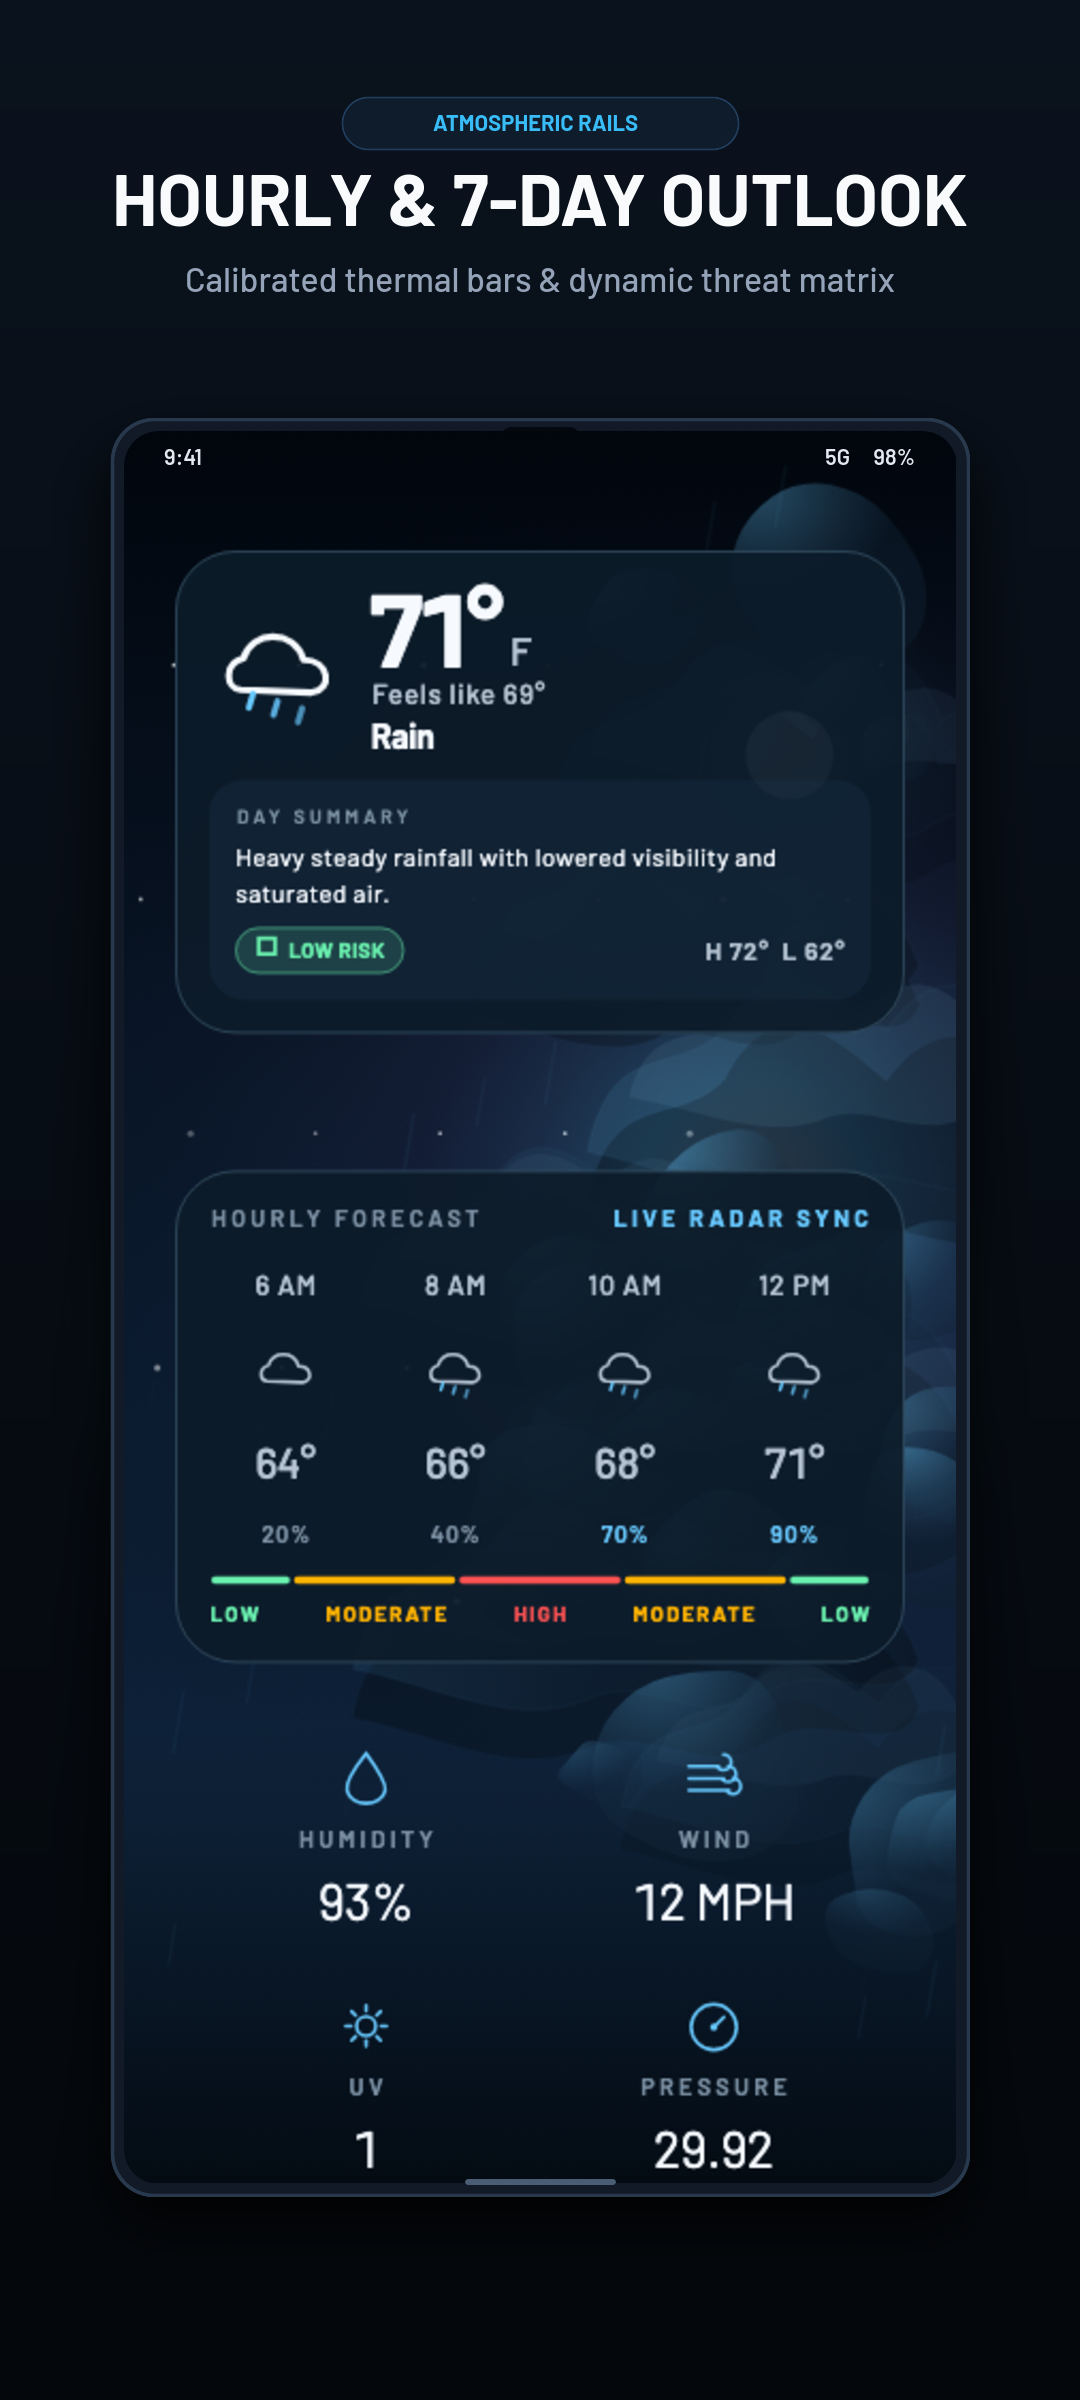
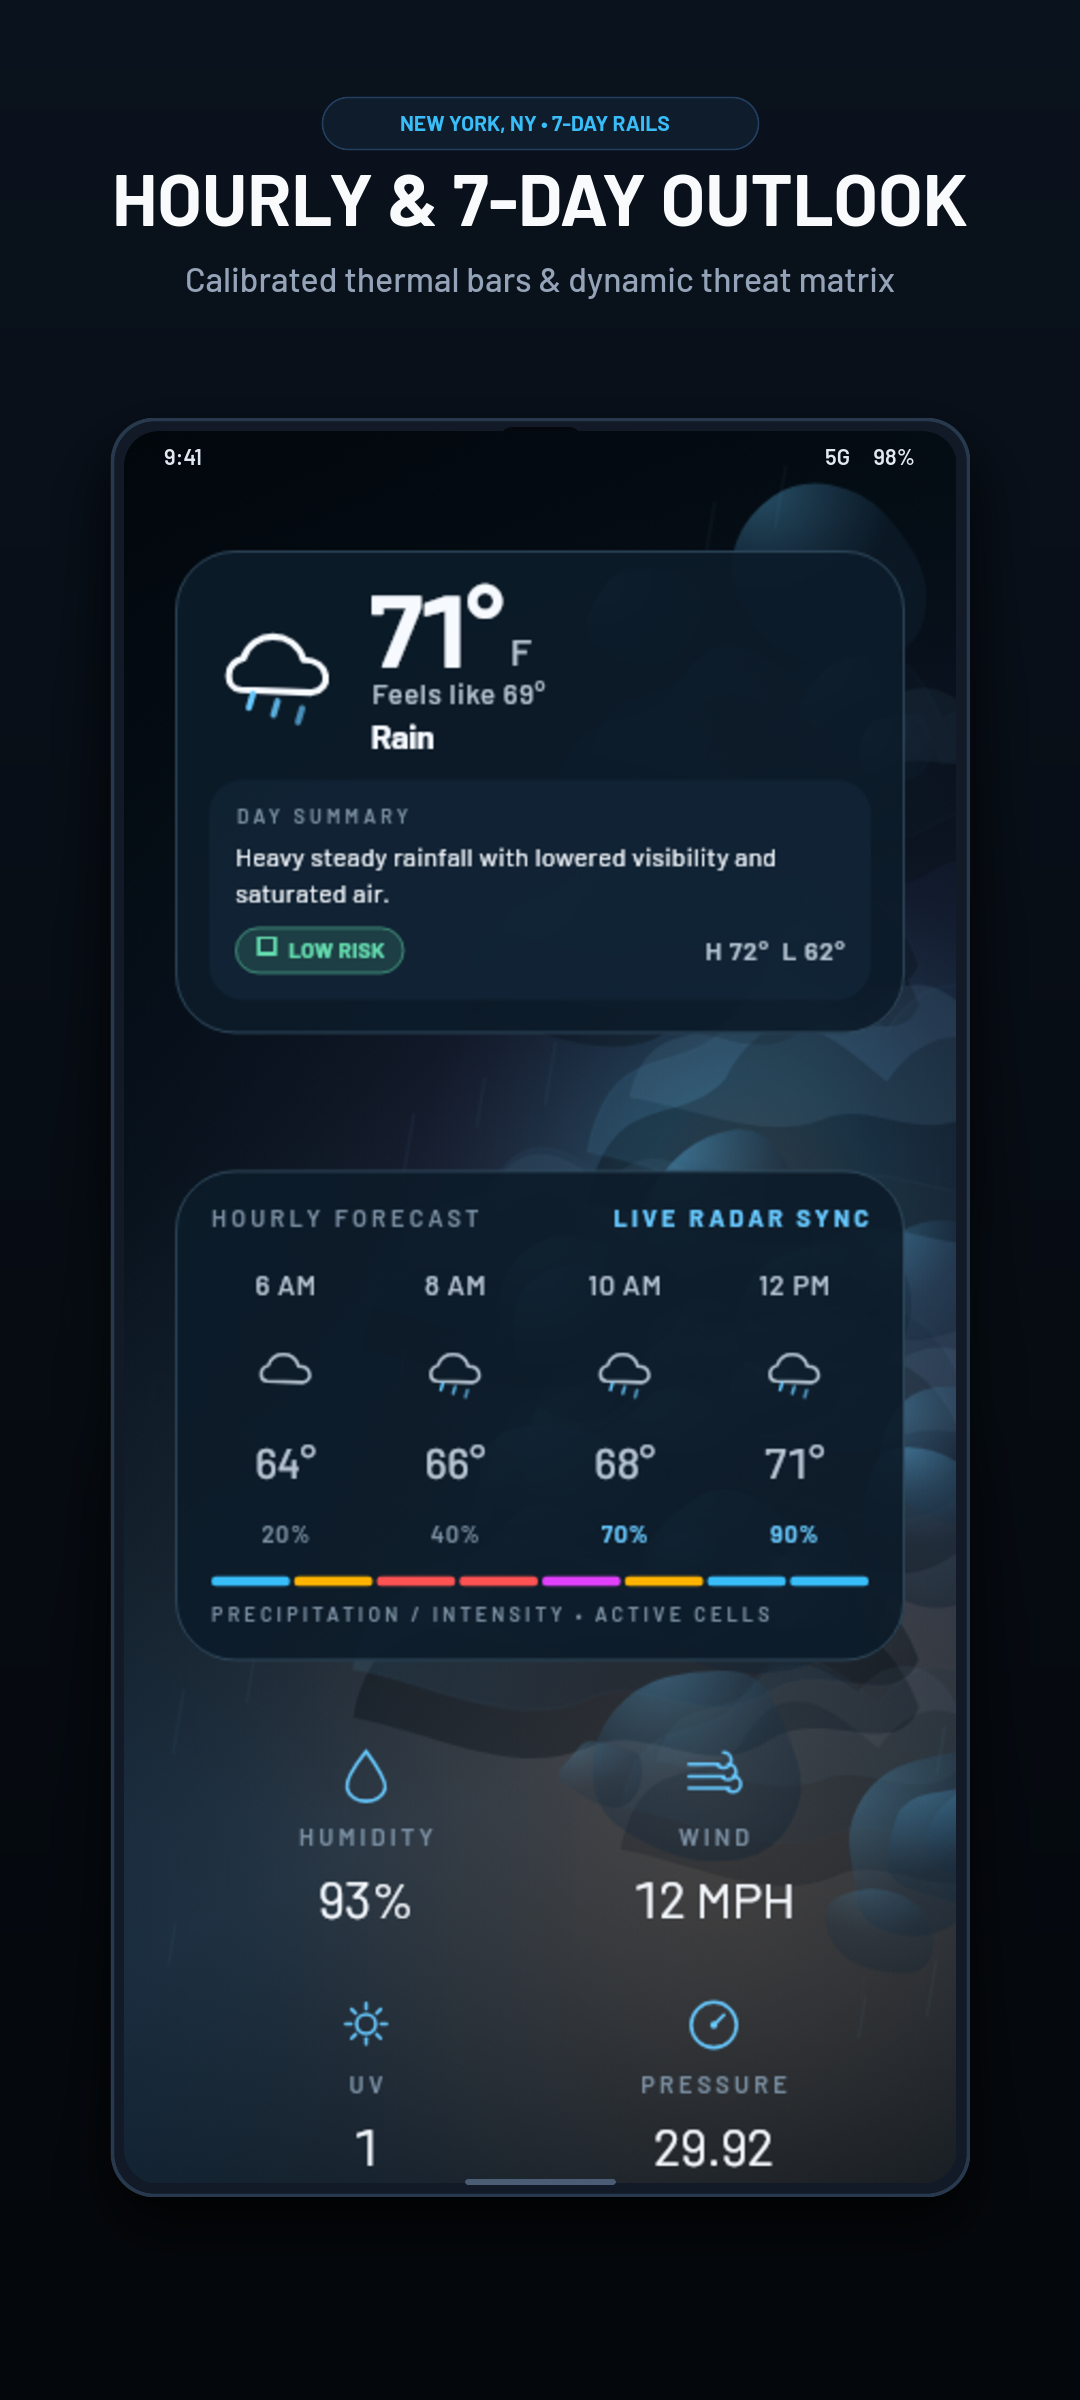
feat(location): update default mock location and store screenshots to New York, NY

diff --git a/test/widget_test.dart b/test/widget_test.dart
@@ -22,7 +22,7 @@ void main() {
     await tester.pump();
 
     expect(find.byType(WeatherLoadingView), findsNothing);
-    expect(find.text('Woonsocket, RI'), findsOneWidget);
+    expect(find.text('New York, NY'), findsOneWidget);
     expect(find.text('71°'), findsAtLeastNWidgets(1));
     expect(find.text('Rain'), findsAtLeastNWidgets(1));
     expect(tester.takeException(), isNull);
@@ -41,7 +41,7 @@ void main() {
     await tester.pump();
 
     // Verify initial load
-    expect(find.text('Woonsocket, RI'), findsOneWidget);
+    expect(find.text('New York, NY'), findsOneWidget);
 
     // Tap an hour in the rail to change selected forecast index
     final hourCell = find.text('10 AM');
@@ -66,10 +66,10 @@ void main() {
     await tester.pump(const Duration(milliseconds: 400));
     await tester.pump();
 
-    expect(find.text('Woonsocket, RI'), findsOneWidget);
+    expect(find.text('New York, NY'), findsOneWidget);
 
     // Tap location header to open dialog
-    await tester.tap(find.text('Woonsocket, RI'));
+    await tester.tap(find.text('New York, NY'));
     await tester.pump(const Duration(milliseconds: 300));
     await tester.pump(const Duration(milliseconds: 300));
 

diff --git a/lib/features/weather/models/mock_weather.dart b/lib/features/weather/models/mock_weather.dart
@@ -5,7 +5,7 @@ import 'weather_model.dart';
 
 abstract final class MockWeather {
   static const WeatherModel newYorkRain = WeatherModel(
-    location: 'Woonsocket, RI',
+    location: 'New York, NY',
     temperature: 71,
     condition: WeatherCondition.rain,
     feelsLike: 69,
@@ -175,7 +175,7 @@ abstract final class MockWeather {
   );
 
   static final WeatherModel newYorkStorm = WeatherModel(
-    location: 'Woonsocket, RI',
+    location: 'New York, NY',
     temperature: 65,
     condition: WeatherCondition.storm,
     feelsLike: 59,

diff --git a/test/visual/home_golden_test.dart b/test/visual/home_golden_test.dart
@@ -164,7 +164,7 @@ void main() {
       platform: TargetPlatform.iOS,
       textScaler: const TextScaler.linear(1.8),
     );
-    expect(find.text('Woonsocket, RI'), findsOneWidget);
+    expect(find.text('New York, NY'), findsOneWidget);
     expect(find.text('71°'), findsAtLeastNWidgets(2));
     expect(find.text('Rain'), findsOneWidget);
     expect(find.text('Feels like 69°'), findsOneWidget);

diff --git a/test/weather_accessibility_test.dart b/test/weather_accessibility_test.dart
@@ -27,7 +27,7 @@ void main() {
     await _pumpShowcase(tester, disableAnimations: true);
 
     expect(
-      find.bySemanticsLabel(RegExp(r'Woonsocket, RI\. 71 degrees\. Rain\.')),
+      find.bySemanticsLabel(RegExp(r'New York, NY\. 71 degrees\. Rain\.')),
       findsOneWidget,
     );
     expect(

diff --git a/test/visual/showcase_golden_test.dart b/test/visual/showcase_golden_test.dart
@@ -108,7 +108,7 @@ void main() {
 
     expect(
       find.bySemanticsLabel(
-        'Woonsocket, RI. 65 degrees. Storm. Feels like 59 degrees. '
+        'New York, NY. 65 degrees. Storm. Feels like 59 degrees. '
         'High 68, low 57.',
       ),
       findsOneWidget,

diff --git a/scripts/render_premium_screenshots.py b/scripts/render_premium_screenshots.py
@@ -10,26 +10,20 @@ FONT_MEDIUM = os.path.join(PROJECT_DIR, "assets/fonts/Barlow-Medium.ttf")
 os.makedirs(OUTPUT_DIR, exist_ok=True)
 os.makedirs("/tmp/store_render", exist_ok=True)
 
-# 1. Prepare Base UI Sources
-# Screen 1: High-res Telemetry (captured earlier at 989x2196)
+# Sources using the fresh New York, NY captures
 ui_telemetry = "/tmp/weatheros_captures/01_telemetry.png"
 if not os.path.exists(ui_telemetry):
-    ui_telemetry = os.path.join(PROJECT_DIR, "test/visual/goldens/home_compact_android.png")
+    ui_telemetry = os.path.join(PROJECT_DIR, "test/visual/failures/showcase_compact_testImage.png")
 
-# Screen 2: Hourly & 7-Day Forecast (Showcase compact)
-ui_forecast = os.path.join(PROJECT_DIR, "test/visual/goldens/showcase_compact.png")
-
-# Screen 3: Storm / Severe Risk Matrix (Showcase storm)
-ui_storm = os.path.join(PROJECT_DIR, "test/visual/goldens/showcase_storm.png")
-
-# Screen 4: High-density Telemetry / Lower Primitives
-ui_density = os.path.join(PROJECT_DIR, "test/visual/goldens/showcase_compact_lower.png")
+ui_forecast = os.path.join(PROJECT_DIR, "test/visual/failures/showcase_compact_testImage.png")
+ui_storm = os.path.join(PROJECT_DIR, "test/visual/failures/showcase_storm_testImage.png")
+ui_density = os.path.join(PROJECT_DIR, "test/visual/failures/showcase_compact_lower_testImage.png")
 
 screens = [
     {
         "filename": "02_screenshot_telemetry.png",
         "glow_color": "#0284C7",
-        "pill": "LIVE TELEMETRY",
+        "pill": "NEW YORK, NY • TELEMETRY",
         "title": "PRECISION WEATHER",
         "subtitle": "Cinematic conditions, UV & atmospheric index",
         "ui_source": ui_telemetry,
@@ -37,7 +31,7 @@ screens = [
     {
         "filename": "03_screenshot_forecast.png",
         "glow_color": "#0D9488",
-        "pill": "ATMOSPHERIC RAILS",
+        "pill": "NEW YORK, NY • 7-DAY RAILS",
         "title": "HOURLY & 7-DAY OUTLOOK",
         "subtitle": "Calibrated thermal bars & dynamic threat matrix",
         "ui_source": ui_forecast,
@@ -45,7 +39,7 @@ screens = [
     {
         "filename": "04_screenshot_storm.png",
         "glow_color": "#7C3AED",
-        "pill": "HAZARD INTELLIGENCE",
+        "pill": "NEW YORK, NY • HAZARDS",
         "title": "SEVERE RISK MATRIX",
         "subtitle": "Multi-vector convective & storm risk analysis",
         "ui_source": ui_storm,
@@ -53,7 +47,7 @@ screens = [
     {
         "filename": "05_screenshot_density.png",
         "glow_color": "#0369A1",
-        "pill": "DEEP ATMOSPHERE",
+        "pill": "NEW YORK, NY • DEEP METRICS",
         "title": "HIGH-DENSITY METRICS",
         "subtitle": "Barometric pressure, dew point & wind tracking",
         "ui_source": ui_density,
@@ -76,9 +70,8 @@ def compose_premium_screenshot(cfg):
     sub_txt = cfg["subtitle"]
     ui_src = cfg["ui_source"]
 
-    print(f"Rendering {cfg['filename']}...")
+    print(f"Rendering {cfg['filename']} with New York, NY source...")
 
-    # A. Scale and crop UI content to exact SCREEN_W x SCREEN_H
     cropped_screen = f"/tmp/store_render/screen_{cfg['filename']}"
     subprocess.run([
         "magick", ui_src,
@@ -88,7 +81,6 @@ def compose_premium_screenshot(cfg):
         cropped_screen
     ], check=True)
 
-    # B. Add status bar mockup at top of screen (time 9:41, wifi, battery icons)
     screen_with_status = f"/tmp/store_render/status_{cfg['filename']}"
     subprocess.run([
         "magick", cropped_screen,
@@ -102,7 +94,6 @@ def compose_premium_screenshot(cfg):
         screen_with_status
     ], check=True)
 
-    # C. Build rounded screen mask
     masked_screen = f"/tmp/store_render/masked_{cfg['filename']}"
     subprocess.run([
         "magick",
@@ -120,28 +111,23 @@ def compose_premium_screenshot(cfg):
         masked_screen
     ], check=True)
 
-    # D. Build phone body with titanium border & punch hole camera
     phone_chassis = f"/tmp/store_render/chassis_{cfg['filename']}"
     subprocess.run([
         "magick",
         "-size", f"{PHONE_W}x{PHONE_H}",
         "xc:transparent",
-        # Outer shell
         "-fill", "#111A26",
         "-stroke", "#28394E",
         "-strokewidth", "3",
         "-draw", f"roundrectangle 2,2 {PHONE_W-2},{PHONE_H-2} {CORNER},{CORNER}",
-        # Punch hole camera pill
         "-stroke", "none",
         "-fill", "#05090F",
         "-draw", f"roundrectangle {PHONE_W//2 - 40},10 {PHONE_W//2 + 40},32 11,11",
-        # Camera lens reflection
         "-fill", "#1E2C3D",
         "-draw", f"circle {PHONE_W//2 - 16},21 {PHONE_W//2 - 13},21",
         phone_chassis
     ], check=True)
 
-    # E. Combine chassis with screen
     assembled_phone = f"/tmp/store_render/phone_{cfg['filename']}"
     subprocess.run([
         "magick", phone_chassis,
@@ -149,14 +135,12 @@ def compose_premium_screenshot(cfg):
         "-gravity", "Center",
         "-compose", "Over",
         "-composite",
-        # Bottom gesture nav bar
         "-stroke", "none",
         "-fill", "#4A5D75",
         "-draw", f"roundrectangle {PHONE_W//2 - 75},{PHONE_H - 18} {PHONE_W//2 + 75},{PHONE_H - 13} 2.5,2.5",
         assembled_phone
     ], check=True)
 
-    # F. Add soft deep drop shadow behind assembled phone
     phone_with_shadow = f"/tmp/store_render/shadow_{cfg['filename']}"
     subprocess.run([
         "magick", assembled_phone,
@@ -167,13 +151,11 @@ def compose_premium_screenshot(cfg):
         phone_with_shadow
     ], check=True)
 
-    # G. Build Background with ambient colored backlight glow
     bg_canvas = f"/tmp/store_render/bg_{cfg['filename']}"
     subprocess.run([
         "magick",
         "-size", "1080x2400",
         "gradient:#0A121D-#04070B",
-        # Ambient color glow spotlight behind the phone
         "(",
         "-size", "960x960",
         f"radial-gradient:{glow_col}33-transparent",
@@ -184,18 +166,17 @@ def compose_premium_screenshot(cfg):
         bg_canvas
     ], check=True)
 
-    # H. Render Badge Pill
     pill_img = f"/tmp/store_render/pill_{cfg['filename']}"
     subprocess.run([
         "magick",
-        "-size", "400x56",
+        "-size", "440x56",
         "xc:transparent",
         "-fill", "#0E1C2C",
         "-stroke", "#223E5E",
         "-strokewidth", "1.5",
-        "-draw", "roundrectangle 2,2 398,54 26,26",
+        "-draw", "roundrectangle 2,2 438,54 26,26",
         "-font", FONT_BOLD,
-        "-pointsize", "22",
+        "-pointsize", "21",
         "-fill", "#38BDF8",
         "-stroke", "none",
         "-gravity", "Center",
@@ -203,27 +184,22 @@ def compose_premium_screenshot(cfg):
         pill_img
     ], check=True)
 
-    # I. Final Composition
     subprocess.run([
         "magick", bg_canvas,
-        # Badge Pill
         pill_img,
         "-gravity", "North",
         "-geometry", "+0+95",
         "-composite",
-        # Title
         "-font", FONT_BOLD,
         "-pointsize", "72",
         "-fill", "#F8FAFC",
         "-gravity", "North",
         "-annotate", "+0+175", title_txt,
-        # Subtitle
         "-font", FONT_MEDIUM,
         "-pointsize", "34",
         "-fill", "#94A3B8",
         "-gravity", "North",
         "-annotate", "+0+268", sub_txt,
-        # Phone with shadow
         phone_with_shadow,
         "-gravity", "North",
         "-geometry", "+0+385",
@@ -238,4 +214,4 @@ def compose_premium_screenshot(cfg):
 for screen in screens:
     compose_premium_screenshot(screen)
 
-print("🎉 All premium store screenshots successfully generated!")
+print("🎉 All New York screenshots successfully generated!")
